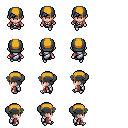
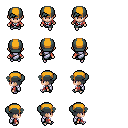
Animations!! :D

Changed region(s): [[0.5312, 0.7812, 0.6875, 1.0], [0.5312, 0.2812, 0.6875, 0.5], [0.2812, 0.5312, 0.4375, 0.75]]

diff --git a/src/js/events/actor.js b/src/js/events/actor.js
@@ -14,6 +14,8 @@ var GLOBAL_SCALEUP = 1.5;
  */
 function Actor(base, opts) {
 	Event.call(this, base, opts);
+	
+	this.on("tick", this._actorTick);
 }
 inherits(Actor, Event);
 extend(Actor.prototype, {
@@ -26,7 +28,11 @@ extend(Actor.prototype, {
 	avatar_format : null,
 	avatar_tex : null,
 	
+	_animationState : null,
+	
 	getAvatar : function(map){ 
+		if (this.avatar_sprite) return this.avatar_sprite;
+		
 		var self = this;
 		var img = new Image();
 		__onLoad(img, DEF_SPRITE_FORMAT);
@@ -43,6 +49,7 @@ extend(Actor.prototype, {
 		//TODO MirroredRepeatWrapping, and just use a negative x uv value, to flip a sprite
 		
 		this.avatar_format = getSpriteFormat(DEF_SPRITE_FORMAT);
+		
 		var mat /*= this.avatar_mat*/ = new THREE.SpriteMaterial({
 			map: texture,
 			color: 0xFFFFFF,
@@ -67,15 +74,20 @@ extend(Actor.prototype, {
 		function __onLoad(img, format) {
 			var f = function() {
 				texture.image = img;
-				texture.needsUpdate = true;
 				
 				self.avatar_format = getSpriteFormat(format);
+				texture.repeat.set(self.avatar_format.repeat, self.avatar_format.repeat);
+
+				texture.needsUpdate = true;
+				
 				self.setAnimationFrame("d0");
 				img.removeEventListener("load", f);
 			}
 			img.on("load", f);
 		}
 	},
+	
+	
 	
 	setScale : function(scale) {
 		this.scale = scale;
@@ -108,12 +120,84 @@ extend(Actor.prototype, {
 		this.avatar_tex.needsUpdate = true;
 	},
 	
+	playAnimation : function(animName, loop) {
+		if (!this._animationState) this._animationState = {};
+		
+		if (animName == null) {
+			this._animationState.running = false;
+			this._animationState.queue = null;
+			return;
+		}
+		
+		var anim = this.avatar_format.anims[animName];
+		if (!anim) {
+			console.warn("ERROR ", this.id, ": Animation name doesn't exist:", animName);
+			return;
+		}
+		
+		var state = this._animationState;
+		state.loop = (loop === undefined)? true : loop;
+		if (anim.length == 1) {
+			//If there's only 1 anim
+			state.running = false;
+			state.queue = null;
+			this.setAnimationFrame(anim[0]);
+		} else {
+			state.running = true;
+			state.queue = anim;
+			state.currFrame = 1;
+			state.waitTime = 0;
+			this.setAnimationFrame(anim[0]);
+		}
+	},
+	
+	pathTo : function(x, y) {
+		
+	},
+	
+	moveTo : function(x, y) {
+	},
+	
 	
 	
 	_normalizeLocation : function() {
 		var num = Event.prototype._normalizeLocation.call(this);
 		if (num != 1 || !this.location)
 			throw new Error("Actors can only be in one place at a time! Number of locations: "+num);
+	},
+	
+	_actorTick : function(delta) {
+		// Do animation
+		if (this._animationState && this._animationState.running) 
+			__doAnimation.call(this);
+		
+		return;
+		
+		function __doAnimation() {
+			var state = this._animationState;
+			if (state.waitTime > 0) {
+				state.waitTime--;
+				return;
+			}
+			state.currFrame++;
+			if (state.loop)
+				state.currFrame = state.currFrame % state.queue.length;
+			else if (state.currFrame >= state.queue.length) {
+				state.running = false;
+				state.queue = null;
+				return;
+			}
+			var frame = state.queue[state.currFrame];
+			
+			switch (typeof frame) {
+				case "string":
+					this.setAnimationFrame(frame);
+					break;
+				case "number":
+					state.waitTime = frame;
+					break;
+			}
+		}
 	},
 	
 });
@@ -128,76 +212,89 @@ function getSpriteFormat(str) {
 	var size = format[1].split("x");
 	size[1] = size[1] || size[0];
 	
+	var base = {
+		width: size[0], height: size[1], flip: false, repeat: 0.25,
+		frames: {
+			"u3": "u0", "d3": "d0", "l3": "l0", "r3": "r0",
+		},
+		anims: {
+			"stand_u": ["u0"],  "walk_u": ["u1", 5, "u3", 5, "u2", 5, "u3", 5 ],
+			"stand_d": ["d0"],  "walk_d": ["d1", 5, "d3", 5, "d2", 5, "d3", 5 ],
+			"stand_l": ["l0"],  "walk_l": ["l1", 5, "l3", 5, "l2", 5, "l3", 5 ],
+			"stand_r": ["r0"],  "walk_r": ["r1", 5, "r3", 5, "r2", 5, "r3", 5 ],
+		},
+	};
+	
 	switch (name) {
 		case "pt_horzrow": 
-			return { 
-				width: size[0], height: size[1], flip: false, repeat: 0.25,
+			return extend(true, base, { 
 				frames: {
 					"u0": [1, 0], "u1": [1, 1], "u2": [1, 2],
 					"d0": [0, 0], "d1": [0, 1], "d2": [0, 2],
 					"l0": [2, 0], "l1": [2, 1], "l2": [2, 2],
 					"r0": [3, 0], "r1": [3, 1], "r2": [3, 2],
-				}
-			};
+				},
+				anims: {},
+			});
 		case "pt_vertcol": 
-			return { 
-				width: size[0], height: size[1], flip: false, repeat: 0.25,
+			return extend(true, base, { 
 				frames: {
 					"u0": [0, 1], "u1": [1, 1], "u2": [2, 1],
 					"d0": [0, 0], "d1": [1, 0], "d2": [2, 0],
 					"l0": [0, 2], "l1": [1, 2], "l2": [2, 2],
 					"r0": [0, 3], "r1": [1, 3], "r2": [2, 3],
-				}
-			};
+				},
+				anims: {},
+			});
 		case "hg_vertmix": 
-			return { 
-				width: size[0], height: size[1], flip: false, repeat: 0.25,
+			return extend(true, base, { 
 				frames: {
 					"u0": [0, 0], "u1": [1, 3], "u2": [2, 0],
 					"d0": [2, 1], "d1": [2, 2], "d2": [2, 3],
 					"l0": [0, 2], "l1": [0, 1], "l2": [0, 3],
 					"r0": [1, 0], "r1": [1, 1], "r2": [1, 2],
-				}
-			};
+				},
+				anims: {},
+			});
 		case "hg_pokerow":
-			return { 
-				width: size[0], height: size[1], flip: false,  repeat: 0.25,
+			return extend(true, base, { 
 				frames: { // pointers to another image indicates that image should be flipped, if flip=true
 					"u0": null, "u1": [0, 0], "u2": [1, 0],
 					"d0": null, "d1": [0, 1], "d2": [1, 1],
 					"l0": null, "l1": [0, 2], "l2": [1, 2],
 					"r0": null, "r1": [0, 3], "r2": [1, 3],
-				}
-			};
+				},
+				anims: {},
+			});
 		case "hg_pokeflip":
-			return { 
-				width: size[0], height: size[1], flip: true, repeat: 0.25,
+			return extend(true, base, { 
 				frames: { // pointers to another image indicates that image should be flipped, if flip=true
 					"u0": null, "u1": [0, 0], "u2": [1, 0],
 					"d0": null, "d1": [0, 1], "d2": [1, 1],
 					"l0": null, "l1": [0, 2], "l2": [1, 2],
 					"r0": null, "r1": "l1",   "r2": "l2",
-				}
-			};
+				},
+				anims: {},
+			});
 		case "bw_vertrow":
-			return { 
-				width: size[0], height: size[1], flip: false, repeat: 0.25,
+			return extend(true, base, { 
 				frames: {
 					"u0": [0, 0], "u1": [1, 0], "u2": [2, 0],
 					"d0": [0, 1], "d1": [1, 1], "d2": [2, 1],
 					"l0": [0, 2], "l1": [1, 2], "l2": [2, 2],
 					"r0": [0, 3], "r1": [1, 3], "r2": [2, 3],
-				}
-			};
+				},
+				anims: {},
+			});
 		case "bw_horzflip":
-			return { 
-				width: size[0], height: size[1], flip: true, repeat: 0.25,
+			return extend(true, base, { 
 				frames: { // pointers to another image indicates that image should be flipped, if flip=true
 					"u0": [0, 0], "u1": [1, 0], "u2": "u1",
 					"d0": [2, 0], "d1": [3, 0], "d2": "d1",
 					"l0": [0, 1], "l1": [1, 1], "l2": [2, 1],
 					"r0": "l0",   "r1": "l1",   "r2": "l2",
-				}
-			};
+				},
+				anims: {},
+			});
 	}
 }

diff --git a/src/js/map.js b/src/js/map.js
@@ -477,7 +477,6 @@ extend(Map.prototype, {
 		if (avatar) {
 			var loc = evt.location;
 			var loc3 = this.get3DTileLocation(loc.x, loc.y, loc.z);
-			console.log("AVATAR: ", loc, loc3);
 			avatar.position.set(loc3);
 			avatar.updateMatrix();
 			
@@ -520,8 +519,8 @@ extend(Map.prototype, {
 	
 	logicLoop : function(delta){
 		if (this.eventList) {
-			for (var i = 0; i < this.eventList.list; i++) {
-				var evt = this.eventList[i];
+			for (var name in this.eventList) {
+				var evt = this.eventList[name];
 				if (!evt) continue;
 				
 				evt.emit("tick", delta);

diff --git a/src/js/tools/mapview.js b/src/js/tools/mapview.js
@@ -44,10 +44,11 @@ function loadMap(id) {
 		var controls = new THREE.OrbitControls(currentMap.camera);
 		controls.damping = 0.2;
 		
-		var oldlogic = currentMap.logicLoop;
-		currentMap.logicLoop = function(){
+		var map = currentMap;
+		var oldlogic = map.logicLoop;
+		map.logicLoop = function(){
 			controls.update();
-			//oldlogic.call(currentMap);
+			oldlogic.call(map);
 		};
 		
 		// showWalkableTiles();

diff --git a/build/build.js b/build/build.js
@@ -294,6 +294,10 @@ function copyDirectory(src, dest, noDefer) {
 
 function findMaps() {
 	console.log("[cMaps] Begining Map Compilation");
+	if (!fs.existsSync(BUILD_OUT+"maps")) {
+		mkdirp(BUILD_OUT+"maps");
+	}
+	
 	var total = 0, success = 0;
 	for (var pi = 0; pi < MAP_DIRS.length; pi++) {
 		if (!fs.existsSync(MAP_DIRS[pi])) continue;
